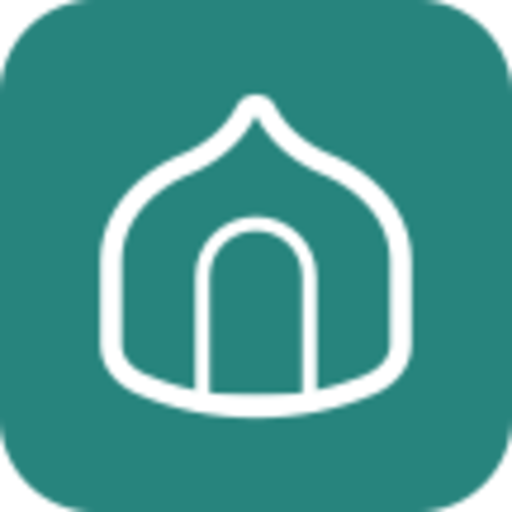
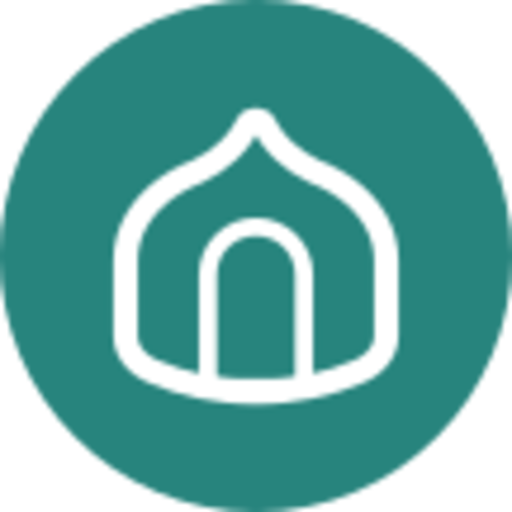
chore: update storefront graphics, readme, and fastlane metadata

diff --git a/README.md b/README.md
@@ -4,7 +4,7 @@
 
 <div align="center">
   <p style="font-size: 24px; font-weight: bold;">• Khushu •</p>
-  <strong>Your prayer deserves your full heart.</strong>
+  <strong>Your deen deserves your full heart.</strong>
 </div>
 
 <br>
@@ -18,6 +18,7 @@
 
 <p align="center">
   <a href="https://github.com/greykaizen/khushu/releases/latest"><img src="https://raw.githubusercontent.com/Kunzisoft/Github-badge/main/get-it-on-github.svg" height="104" align="middle"></a>&nbsp;&nbsp;
+  <a href="https://android.izzysoft.de/repo/apk/com.kaizen.khushu"><img src="https://gitlab.com/izzyondroid/repo/-/raw/master/assets/IzzyOnDroid.png" height="104" align="middle"></a>&nbsp;&nbsp;
   <a href="http://apps.obtainium.imranr.dev/redirect.html?r=obtainium://add/https://github.com/greykaizen/khushu"><img src="https://raw.githubusercontent.com/ImranR98/Obtainium/main/assets/graphics/badge_obtainium.png" height="70" align="middle"></a>
 </p>
 
@@ -44,34 +45,24 @@ There are no ads, no trackers, no subscriptions, and no selling of your data. Yo
 
 ## ✨ A Space for Focus
 
-We stripped away everything unnecessary and embraced a "Pure Black" aesthetic. It's gentle on the eyes, deeply immersive, and designed to help you attain *Khushu* (deep concentration and humility) in your worship.
+We stripped away everything unnecessary and embraced a beautiful, distraction-free aesthetic. It's gentle on the eyes, deeply immersive, and designed to help you attain *Khushu* (deep concentration and humility) in your worship.
 
-### 🕋 Immersive Salah
-Experience a beautifully smooth Rakat picker and a minimalist full-screen counter that lets you focus entirely on your prayer. Just tap anywhere.
-
-<p align="center">
-  <kbd><img src="docs/images/screenshots/Screenshot_2026-04-30-14-29-44-15_12360300079e5e3aef057e94f5c45592.jpg" width="200"></kbd>
-  <kbd><img src="docs/images/screenshots/Screenshot_2026-04-30-14-29-46-82_12360300079e5e3aef057e94f5c45592.jpg" width="200"></kbd>
-  <kbd><img src="docs/images/screenshots/Screenshot_2026-04-28-13-10-14-38_12360300079e5e3aef057e94f5c45592.jpg" width="200"></kbd>
-</p>
-
-### 📿 Calming Tasbeeh
-Organize your Dhikr in calming, pastel-colored collections. Our massive, immersive counters let you engage in remembrance without constantly looking at your screen. Design beautiful tasbih's and let Allahs remembrance fill your heart.
+### 🕋 Comprehensive Yet Minimal
+Khushu is packed with everything you need—accurate prayer times with sunpath visuals, immersive Salah tracking, deeply customizable Tasbeeh collections, and a complete suite for reading and listening to the Quran, Tafsir, and Hadith. All wrapped in a premium, highly expressive Material 3 aesthetic designed to respect your focus.
 
 <p align="center">
-  <kbd><img src="docs/images/screenshots/Screenshot_2026-04-28-13-00-09-84_12360300079e5e3aef057e94f5c45592.jpg" width="200"></kbd>
-  <kbd><img src="docs/images/screenshots/Screenshot_2026-04-30-14-37-33-79_12360300079e5e3aef057e94f5c45592.jpg" width="200"></kbd>
-  <kbd><img src="docs/images/screenshots/Screenshot_2026-04-28-13-10-24-23_12360300079e5e3aef057e94f5c45592.jpg" width="200"></kbd>
+  <kbd><img src="docs/images/screenshots/poster_1.jpg" width="190"></kbd>&nbsp;
+  <kbd><img src="docs/images/screenshots/poster_2.jpg" width="190"></kbd>&nbsp;
+  <kbd><img src="docs/images/screenshots/poster_3.jpg" width="190"></kbd>&nbsp;
+  <kbd><img src="docs/images/screenshots/poster_4.jpg" width="190"></kbd>
 </p>
-
-### 📖 Learn & Reflect
-Authentic Hadith and Quranic verses presented in modern, clean typography, giving you the clarity to ponder over the words of Allah and His Messenger (ﷺ).
-
 <p align="center">
-  <kbd><img src="docs/images/screenshots/Screenshot_2026-04-30-14-29-54-06_12360300079e5e3aef057e94f5c45592.jpg" width="200"></kbd>
-  <kbd><img src="docs/images/screenshots/Screenshot_2026-04-28-13-00-19-29_12360300079e5e3aef057e94f5c45592.jpg" width="200"></kbd>
-  <kbd><img src="docs/images/screenshots/Screenshot_2026-04-28-13-00-29-44_12360300079e5e3aef057e94f5c45592.jpg" width="200"></kbd>
+  <kbd><img src="docs/images/screenshots/poster_5.jpg" width="190"></kbd>&nbsp;
+  <kbd><img src="docs/images/screenshots/poster_6.jpg" width="190"></kbd>&nbsp;
+  <kbd><img src="docs/images/screenshots/poster_7.jpg" width="190"></kbd>&nbsp;
+  <kbd><img src="docs/images/screenshots/poster_8.jpg" width="190"></kbd>
 </p>
+
 
 ---
 
@@ -83,11 +74,11 @@ If you love the app and want to see it grow—if you want to help us reach more 
 
 **Support via Crypto:**
 
-| Asset | Network | Address |
-| :--- | :--- | :--- |
-| <img src="https://img.shields.io/badge/Bitcoin-orange?style=flat-square&logo=bitcoin&logoColor=white" height="20"> | Bitcoin | `bc1q04zs40e9cakxuu2lw3r04jc2vmmv084rvz5kx9` |
-| <img src="https://img.shields.io/badge/Ethereum-3C3C3D?style=flat-square&logo=ethereum&logoColor=white" height="20"> | ERC20 / Base / Polygon | `0x139aB14D67B1E0dAaEDe1CF5e3234B1Cc3644BE0` |
-| <img src="https://img.shields.io/badge/USDT-26A17B?style=flat-square&logo=tether&logoColor=white" height="20"> | TRC20 (TRON) | `TDmZvrFGBKyP9opEL1FCzpvH9MXBmJ9r6q` |
+| Asset | Address |
+| :--- | :--- |
+| <img src="https://img.shields.io/badge/Bitcoin-F7931A?style=for-the-badge&logo=bitcoin&logoColor=white"> | `bc1q04zs40e9cakxuu2lw3r04jc2vmmv084rvz5kx9` |
+| <img src="https://img.shields.io/badge/Ethereum_/_Base-3C3C3D?style=for-the-badge&logo=ethereum&logoColor=white"> | `0x139aB14D67B1E0dAaEDe1CF5e3234B1Cc3644BE0` |
+| <img src="https://img.shields.io/badge/USDT_(TRON)-26A17B?style=for-the-badge&logo=tether&logoColor=white"> | `TDmZvrFGBKyP9opEL1FCzpvH9MXBmJ9r6q` |
 
 ---
 